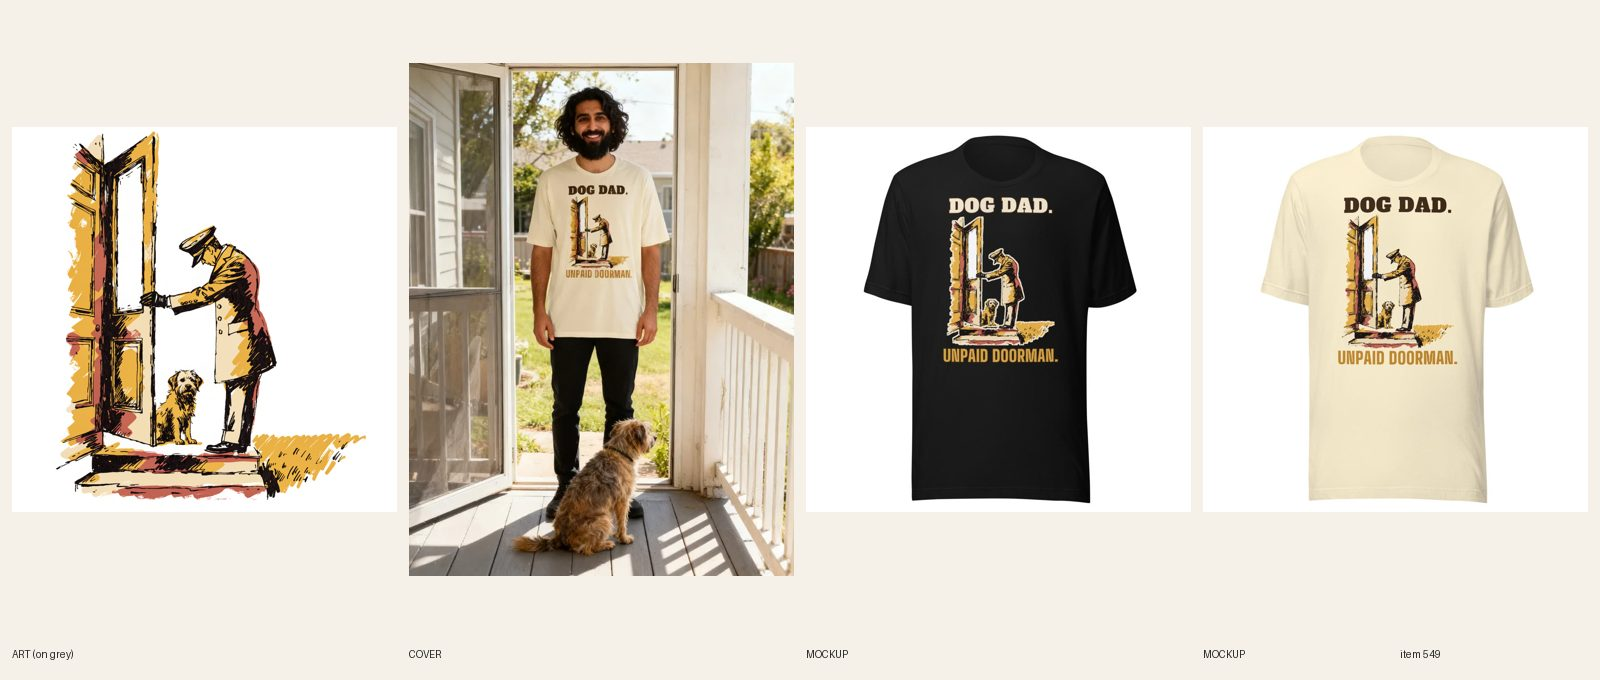
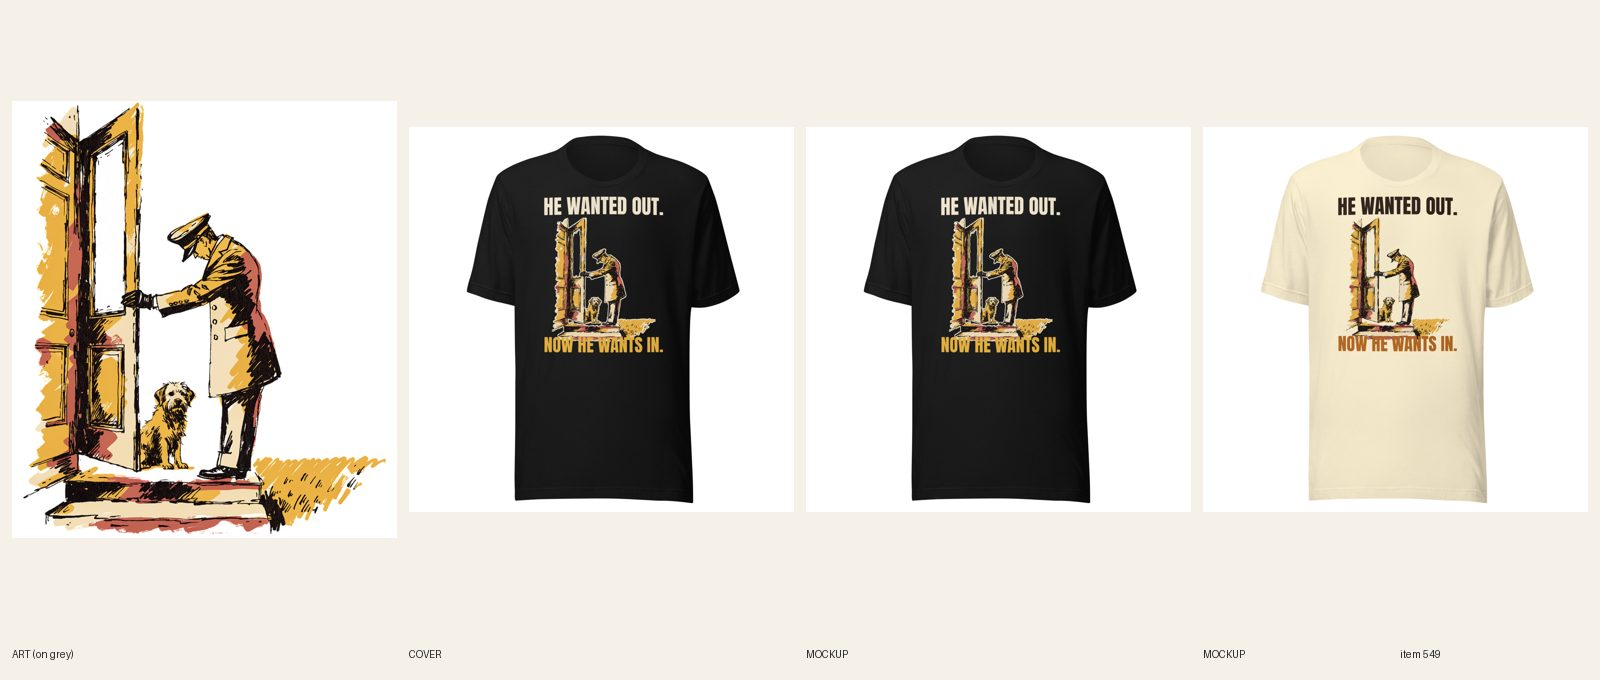
[B] review 549 Dog Dad tee redo (He Wanted Out)

Changed region(s): [[0.0, 0.0926, 0.5, 0.8647], [0.5625, 0.2779, 0.6875, 0.5559], [0.8125, 0.2779, 0.9062, 0.5559]]

diff --git a/designs/b549/desc.html b/designs/b549/desc.html
@@ -1,0 +1,21 @@
+<h3>The Story</h3>
+<p>HE WANTED OUT. NOW HE WANTS IN. A funny dog dad shirt for the man who has opened the same door nine times before breakfast, for Father's Day, a birthday or Christmas, signed from the dog.</p>
+<p>The vintage screen-print scene shows a doorman in a peaked cap, buttoned coat and gloves bending in a formal bow as he holds a tall open door, a scruffy mixed-breed dog sitting in the doorway at his feet, a porch step and a patch of lawn, in mustard, brick red, cream and dark brown inks with a worn finish. HE WANTED OUT. sits above the scene and NOW HE WANTS IN. below it in tall condensed capitals, cream and mustard on the dark shirts with a cream edge around the art, dark brown and rust on the light ones.</p>
+<p>It is a lightweight unisex tee in nine colors, easy to wear for the morning walk and out. Original art, made for Graphic Tees Co. and printed the day you order it.</p>
+<h3>Details &amp; Fit</h3>
+<ul>
+<li>Classic unisex fit, crew neck</li>
+<li>100% combed, ring-spun cotton (heather colors contain polyester)</li>
+<li>Fabric weight: 4.2 oz/yd² — lightweight</li>
+<li>Pre-shrunk, side-seamed construction, shoulder-to-shoulder taping</li>
+<li>Sizes S–4XL</li>
+<li>Colors: Black, Navy, Dark Grey Heather, Heather Forest, Brown, Natural, Soft Cream, Ash, Athletic Heather</li>
+<li>Blank product sourced from Nicaragua, Honduras, or the US</li>
+</ul>
+<h3>Questions</h3>
+<p><strong>How warm or heavy is the He Wanted Out tee?</strong><br>The He Wanted Out tee from Graphic Tees Co. is a lightweight 4.2 oz/yd² unisex tee made from 100% combed, ring-spun cotton (heather colors contain polyester). It is soft and breathable, easy to wear around the house, on the dog walk or out to the yard, and it holds its shape wash after wash.</p>
+<p><strong>How do I wash the He Wanted Out tee?</strong><br>Turn the He Wanted Out tee inside out and wash it in cold water with similar colors, then tumble dry on low or hang it to dry. Skip bleach and fabric softener, and never iron over the print. Cold washing keeps the cream, mustard and rust inks looking sharp longer, even after plenty of trips through the machine.</p>
+<p><strong>Will the He Wanted Out tee arrive in time for Christmas?</strong><br>Graphic Tees Co. prints each He Wanted Out tee to order, and orders over $45 ship free. For a Christmas gift, order by about December 8 so it arrives with time to spare. If the size is a guess, one free size exchange within 30 days of delivery covers it, and we print the new size.</p>
+<p><strong>What if the size is wrong on my He Wanted Out tee?</strong><br>Graphic Tees Co. offers one free size exchange within 30 days of delivery on the He Wanted Out tee. We print the new size and you do not mail anything back. If a print arrives misprinted or damaged, we reprint it or refund it within 30 days of delivery, no argument.</p>
+<p><strong>Is the He Wanted Out tee a good gift for a dog dad?</strong><br>Yes. The He Wanted Out tee from Graphic Tees Co. suits any dad who holds the back door while the dog decides, so it works for Father's Day, a birthday or a gift from the dog. Orders over $45 ship free, and the free size exchange within 30 days makes sizing a guess painless.</p>
+<p><strong>How does the He Wanted Out tee fit?</strong><br>The He Wanted Out tee from Graphic Tees Co. is a classic unisex cut in sizes S through 4XL with a crew neck and side seams. Order your usual size for a regular fit or size up one for a looser, relaxed look. Compare the size chart with a tee you already own, and the first exchange is free.</p>

diff --git a/designs/b549/copy.py b/designs/b549/copy.py
@@ -1,0 +1,28 @@
+import re,json
+T="He Wanted Out tee"
+qa=[
+(f"How warm or heavy is the {T}?",f"The {T} from Graphic Tees Co. is a lightweight 4.2 oz/yd² unisex tee made from 100% combed, ring-spun cotton (heather colors contain polyester). It is soft and breathable, easy to wear around the house, on the dog walk or out to the yard, and it holds its shape wash after wash."),
+(f"How do I wash the {T}?",f"Turn the {T} inside out and wash it in cold water with similar colors, then tumble dry on low or hang it to dry. Skip bleach and fabric softener, and never iron over the print. Cold washing keeps the cream, mustard and rust inks looking sharp longer, even after plenty of trips through the machine."),
+(f"Will the {T} arrive in time for Christmas?",f"Graphic Tees Co. prints each {T} to order, and orders over $45 ship free. For a Christmas gift, order by about December 8 so it arrives with time to spare. If the size is a guess, one free size exchange within 30 days of delivery covers it, and we print the new size."),
+(f"What if the size is wrong on my {T}?",f"Graphic Tees Co. offers one free size exchange within 30 days of delivery on the {T}. We print the new size and you do not mail anything back. If a print arrives misprinted or damaged, we reprint it or refund it within 30 days of delivery, no argument."),
+(f"Is the {T} a good gift for a dog dad?",f"Yes. The {T} from Graphic Tees Co. suits any dad who holds the back door while the dog decides, so it works for Father's Day, a birthday or a gift from the dog. Orders over $45 ship free, and the free size exchange within 30 days makes sizing a guess painless."),
+(f"How does the {T} fit?",f"The {T} from Graphic Tees Co. is a classic unisex cut in sizes S through 4XL with a crew neck and side seams. Order your usual size for a regular fit or size up one for a looser, relaxed look. Compare the size chart with a tee you already own, and the first exchange is free."),
+]
+for q,a in qa: print(len(a.split()),q)
+h="""<h3>The Story</h3>
+<p>HE WANTED OUT. NOW HE WANTS IN. A funny dog dad shirt for the man who has opened the same door nine times before breakfast, for Father's Day, a birthday or Christmas, signed from the dog.</p>
+<p>The vintage screen-print scene shows a doorman in a peaked cap, buttoned coat and gloves bending in a formal bow as he holds a tall open door, a scruffy mixed-breed dog sitting in the doorway at his feet, a porch step and a patch of lawn, in mustard, brick red, cream and dark brown inks with a worn finish. HE WANTED OUT. sits above the scene and NOW HE WANTS IN. below it in tall condensed capitals, cream and mustard on the dark shirts with a cream edge around the art, dark brown and rust on the light ones.</p>
+<p>It is a lightweight unisex tee in nine colors, easy to wear for the morning walk and out. Original art, made for Graphic Tees Co. and printed the day you order it.</p>
+<h3>Details &amp; Fit</h3>
+<ul>
+<li>Classic unisex fit, crew neck</li>
+<li>100% combed, ring-spun cotton (heather colors contain polyester)</li>
+<li>Fabric weight: 4.2 oz/yd² — lightweight</li>
+<li>Pre-shrunk, side-seamed construction, shoulder-to-shoulder taping</li>
+<li>Sizes S–4XL</li>
+<li>Colors: Black, Navy, Dark Grey Heather, Heather Forest, Brown, Natural, Soft Cream, Ash, Athletic Heather</li>
+<li>Blank product sourced from Nicaragua, Honduras, or the US</li>
+</ul>
+<h3>Questions</h3>
+"""+"\n".join(f"<p><strong>{q}</strong><br>{a}</p>" for q,a in qa)
+open('designs/b549/desc.html','w').write(h); print(json.dumps(h)[:80])

diff --git a/docs/pipeline/549-dog-dad-tee-unpaid-doorman.md b/docs/pipeline/549-dog-dad-tee-unpaid-doorman.md
@@ -1,4 +1,4 @@
-status: REDO
+status: REVIEW
 lane: B
 type: new
 id: 549
@@ -31,3 +31,4 @@ shopify: gid://shopify/Product/15364631724336
 - 2026-10-18 04:13 UTC [B]: built DRAFT gid://shopify/Product/15364631724336 (Bella+Canvas 3001 #71, 9 colors x S-4XL = 63, $24.99, compareAtPrice null, category aa-1-13-8, tags per brief), sync 63/63. Art: 2 Recraft calls (try 1 had a big black doorway interior = dark patch, rejected; try 2 kept: doorman bowing, dog sitting in the doorway beside his feet). DOG DAD. (Alfa Slab One 500) above, UNPAID DOORMAN. (Big Shoulders 900, 430) below via compose-print, both within the art width. Two files: dark-ink for Natural/Soft Cream/Ash/Athletic Heather (FW 1650), cream-halo + cream/mustard-keylined file for Black/Navy/Dark Grey Heather/Heather Forest/Brown (FW 1600 because the taller print would pass the 2400 px area at 1650, TOP 75). Heather Dust and Maroon-style extras not offered; 9 colors. Phone-size read: every line reads on Black and Natural. R6.2: no ring/panel/typeset line; no frame, badge. Mockups: all 9 colors + back, variant images linked. Copy: keyword dog dad shirts in line one and meta, FAQ 5+fit (47-55 words, Dec 8). Cover: registry #889, 1 fal photo (Natural), every word reads, dog beside his feet, hands empty; alt starts Man. Audit-local PASS. fal $0.10.
 - 2026-10-18 04:20 UTC director: LIVE. Doorman + dog reads on Black and Natural, dog in the cover scene, hands empty. ACTIVE, published. Audit PASS.
 - 2026-10-18 17:22 UTC director: QUALITY RESET grade C (new line + type), REDO. The product stays ACTIVE (same handle, URL, title keyword). 1. Line (R3.12, quality-reset 'Lines'): "DOG DAD. / UNPAID DOORMAN.": Noun plus mild aside; small type, art panel has no lettering. Write 5 candidates, keep the one a stranger laughs at in 3 seconds without backstory; kill lines that only describe the picture; if none of the 5 is funny, PARK it. 2. Quality reset type bar (docs/backlog/quality-reset.md, 'The new bar'): headline at least 90% of the art width, heavy, colors pulled from the art; second line at least 45% of the headline's height, never a thin script on a dark or mid garment; use the lettering as a shape (arch, stacked lockup, words breaking into the art), not a plain bar above and a script line below; no font used on more than 1 in 6 of the last 30 designs. 3. Keep the art if it carries the new line, else one new illustration (R4/R5). New print means a new cover per R6.10, copy line one rewritten for the new joke (R8.3), and a fresh review sheet (R7.7). While quality-reset.md says PAUSED, only lane A builds, and only the samples step 2 names.
+- 2026-10-20 09:49 UTC builder [B]: REDO 549 (C grade, line + type) done in place (stays ACTIVE, handle unchanged; title now Men's Dog Dad – He Wanted Out, Now He Wants In Tee; SEO title/meta rewritten). 5 candidates: 'DOG DAD. / UNPAID DOORMAN.' (old); 'HE WANTED OUT. / NOW HE WANTS IN.'; 'OPEN. CLOSE. / REPEAT. ALL DAY.'; 'AFTER YOU, / YOUR MAJESTY.'; 'I WORK FOR / TREATS.'. Kept HE WANTED OUT. / NOW HE WANTS IN. (the dog sitting at the open door is the proof; every dog owner has done this door). Same art (no fal, $0), Anton (0 of last 30 commits). Headline 2880 px / punch 2880 px = 100% (punch letters are shorter but equally wide). Dark colors (Black, Navy, Dark Grey Heather, Heather Forest, Brown): cream + mustard, cream halo on the art. Natural, Soft Cream, Ash, Athletic Heather: dark-ink file (dark brown + rust, no halo; light file logged). FW 1650 TOP 75. Verified 63/63 with a new file per color (no old ids), back logo kept. 9 fronts replaced in place with new alt, copy + 6 FAQs 51-59 words rewritten. Phone-size read OK on all nine. Cover: AI cover shows old words; handle already in retired-covers.json. Sheet docs/review/549.jpg.

diff --git a/docs/intake-log.md b/docs/intake-log.md
@@ -3,6 +3,7 @@ RUNNING lane B since 2026-10-20 09:02 UTC
 2026-10-20 09:32 UTC — [E] Builder run: redid #610 Women's Pickleball crewneck again (line: PLAYS NICE. / KEEPS SCORE., same scorecard-of-paddles art, Alfa Slab One 100%/100% widths, Navy + Sand files, 12/12 synced, retitled). REVIEW. No other lane E REDO; READY items still need the R5.2 favorites proof. fal $0.
 2026-10-20 09:20 UTC — [D] Director run: inbox nothing new. 6 LIVE (cap): #459 #499 #503 #514 #533 #563, audit PASS (#563 copy de-stuffed). Reviewed 22: 14 approved and held (#390 #391 #470 retitled), 8 REDO (#408 #417 #447 caption-strip type, card 7k; #491 repeat punch + small stitch; #507 dark forest band; #508 repeat punch + square scene; #509 square scene; #545 thin script). Queue: A/B/C/E each 12 READY, no new briefs. No Telegram (not a digest run).
 2026-10-20 09:19 UTC — [A] Builder run: redid #500 Women's Christmas Embroidered Merry-ish crewneck (line+type: OH, FIR REAL? over the five embroidered trees, Alfa Slab full width, green thread file 1090273770 / white thread file 1090273779, 12/12 relinked, 2 fronts replaced in place, copy updated, plain product shot). REVIEW. fal $0.
+2026-10-20 09:49 UTC — [B] Builder run: redid #549 Men's Dog Dad tee (line + type: HE WANTED OUT. / NOW HE WANTS IN., same doorman art, Anton, cream/mustard file on 5 dark colors + dark-ink file on 4 light, 63/63 synced). REVIEW. fal $0.
 2026-10-20 09:05 UTC — [B] Builder run: #545 Women's Gym Mid-Set. Not Interested. tee to REVIEW (cover retired to flat shot, line one already fixed, 36/36 synced, new review sheet). fal $0.
 2026-10-20 09:11 UTC — [A] Builder run: redid #491 Women's Embroidered Ghost crewneck (line+type: AT A GOOD PART. / DON'T TALK TO ME., same reading ghost, Alfa Slab full width, navy thread file 1090271600 / white thread file 1090271605, 12/12 relinked, 2 fronts replaced in place, copy updated, plain product shot). REVIEW. fal $0.
 2026-10-20 08:53 UTC — [E] Builder run (second session): 16 REDOs to REVIEW (366 388 438 451 466 472 486 536 537 576 608 610 611 613 628 631 652 = 17 items counting 576); no more REDO left in lane E; new READY items need the R5.2 favorites proof that this environment cannot fetch (707 claim released). Note: a concurrent lane E session collided with me on #576 (resolved, #576 is consistent on Printful and Shopify). fal about $0.40 this run.
